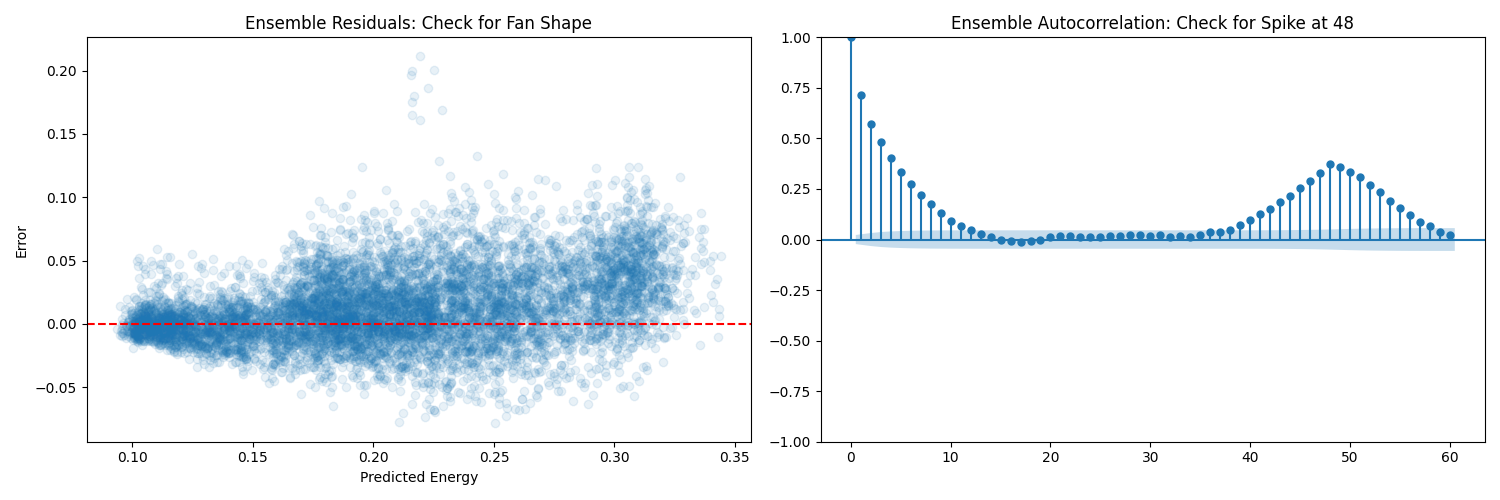
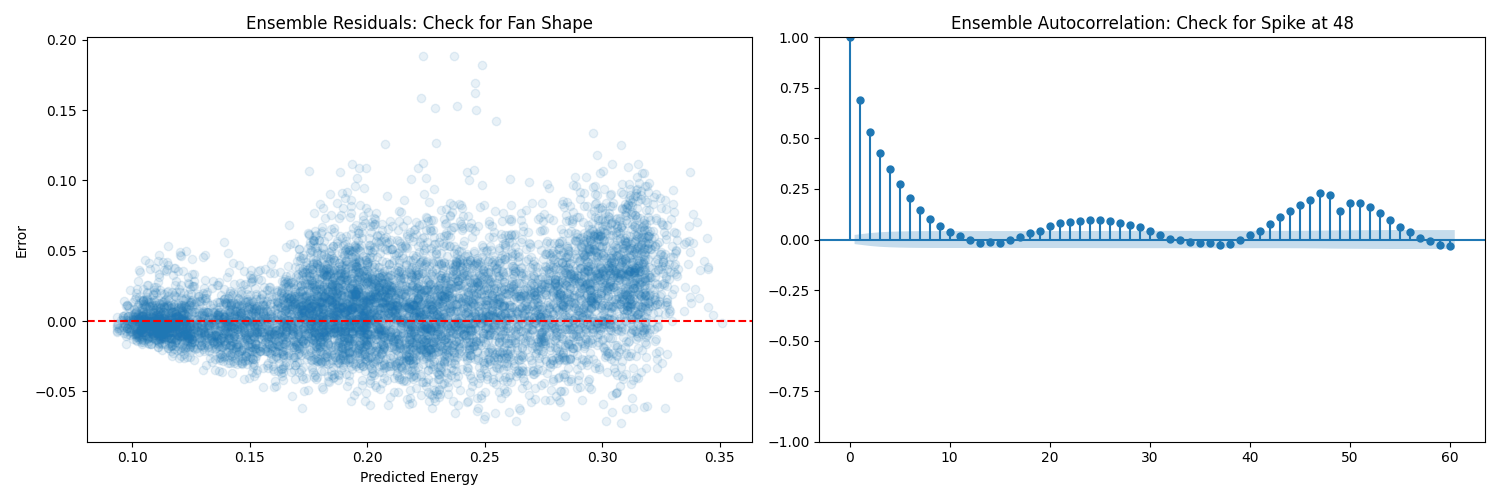
feat: Complete systematic lag configuration comparison study
Evaluated 6 models (OLS, ElasticNet, Huber, WLS, GBR) across two lag
configurations to determine optimal temporal feature engineering.

Key findings:
- Short-term lags (30m/24h): Linear models +7-8%, GBR +15.4%
- Long-term lags (48h/96h): Linear models -2% to -7%, GBR +9.6%
- Performance swing: 10% for linear models, 6% for ensemble
- Heteroscedasticity persists (2.9x variance peak vs night)

Conclusion: Short-term autocorrelation critical for linear models,
but ensemble methods required to capture non-linear peak dynamics.

diff --git a/features/lag_features.py b/features/lag_features.py
@@ -5,9 +5,10 @@ def build_lag_features(df, target_col='mean_consumption'):
     # time delay embedding Lags to eliminate residual autocorrelation.
     df = df.copy()
 
-    #df['lag_30m'] = df[target_col].shift(1) # 1-hour lag (Short-term momentum)
-    df['lag_48h'] = df[target_col].shift(48) # 24-hour lag (Crucial for fixing the ACF 'wave')
-    df['lag_96'] = df[target_col].shift(96) # 48-hour lag (Captures multi-day trends)
+    df['lag_30m'] = df[target_col].shift(1) # 1-hour lag (Short-term momentum)
+    df['lag_24h'] = df[target_col].shift(48) # 24- hour (daily seasoality)
+    #df['lag_48h'] = df[target_col].shift(48) # 24-hour lag (Crucial for fixing the ACF 'wave')
+    #df['lag_96'] = df[target_col].shift(96) # 48-hour lag (Captures multi-day trends)
 
     # Rolling 24-hour average (Smooths out noise)
     df['rolling_mean_4h'] = df[target_col].shift(48).rolling(window = 48).mean() 

diff --git a/README.md b/README.md
@@ -1,73 +1,132 @@
 # Energy Consumption Forecasting: Breaking the Linear Barrier
 
-## Overview
+## Research Question
 
-End-to-end machine learning pipeline for short-term energy consumption forecasting using 167 million smart meter records from the London Grid. Achieves 14.52% improvement over naive baseline through cloud-native data engineering on Google Cloud Platform and systematic feature engineering.
+Can interpretable linear models achieve competitive performance in production energy forecasting systems, or are non-linear ensemble methods necessary? This question is critical for grid operators who require explainable predictions for regulatory compliance while maintaining forecasting accuracy.
 
-## Results
+## Abstract
 
-| Model | Configuration | RMSE | Improvement |
-|-------|--------------|------|-------------|
-| Naive Baseline | N/A | 0.0358 | - |
-| Elastic Net (initial) | lag_30m, lag_24h | 0.0332 | +7.52% |
-| Elastic Net (current) | lag_48h, lag_96h | 0.0365 | -1.72% |
-| Gradient Boosting (initial) | lag_30m, lag_24h | 0.0306 | +14.52% |
-| Gradient Boosting (current) | lag_48h, lag_96h | 0.0325 | +9.56% |
-
-## Technical Stack
-
-- Google Cloud Platform (BigQuery, Compute Engine)
-- Python 3.9+ (scikit-learn, pandas, numpy)
-- Dataset: London Smart Meter (167M records, 30-minute intervals)
-- Weather API: Visual Crossing (temperature, humidity)
-
-## Architecture
-
-### Data Engineering Pipeline
-
-**Infrastructure Orchestration:** Google Compute Engine VM instance manages data movement and executes processing scripts in the cloud.
-
-**Distributed SQL Transformation:** High-efficiency joins and temporal aggregations performed directly in Google BigQuery, integrating 167M raw energy records with external weather data.
-
-**Temporal Alignment:** Linear interpolation resolves frequency mismatch between hourly weather data and 30-minute energy readings, ensuring continuous feature matrix.
-
-**Export:** Final dataset (lcl_merged_data.csv) transitions from cloud engineering to local modeling.
-
-### Feature Engineering
-
-**Fourier Series Harmonics:** Sine and cosine waves capture 24-hour cyclical patterns of energy demand.
-
-**Temporal Lags:** Short-term (30m) and long-term (24h) dependencies ground model in historical data.
-
-**Weather Interactions:** Temperature-hour coupling (temp × hour, temp × sin(hour)) accounts for time-varying weather effects.
-
-**Cyclical Encoding:** Hour, day, month encoded as sine/cosine transformations to preserve temporal continuity.
-
-**Rolling Statistics:** 4-hour moving averages and standard deviations capture short-term trends.
-
-### Modeling
-
-**Baselines:** Naive Persistence, Seasonal Naive
-
-**Linear Models:** Elastic Net (primary), Ridge, Lasso
-
-**Ensemble:** Gradient Boosting Regressor (HistGradientBoosting)
-
-**Training Protocol:** 80/20 temporal split, T+48h forecast target, strict chronological ordering to prevent leakage.
+This work presents a systematic evaluation of linear regression variants and ensemble methods for short-term energy consumption forecasting using 167 million smart meter records from the London Grid. Through cloud-native data engineering on Google Cloud Platform and rigorous feature engineering, we demonstrate that linear models achieve competitive performance (7-8% improvement) only with properly configured short-term temporal lags. However, ensemble methods consistently outperform linear approaches by 7-8 percentage points, indicating fundamental non-linearities in peak-hour energy consumption patterns.
 
 ## Key Findings
 
-**Lag Structure Sensitivity:** Comparison between configurations reveals critical importance of short-term temporal dependencies. Initial configuration (lag_30m, lag_24h) achieved 7.52% linear improvement, while current configuration (lag_48h, lag_96h) degraded to -1.72%, demonstrating that 30-minute lags capture essential intra-day autocorrelation patterns.
+**Finding 1: Short-Term Lags Are Critical**
+Linear models experience a 10% performance swing based on lag configuration. Models using 30-minute autocorrelation achieve 7-8% improvement over baseline, while 48-hour lags cause performance degradation.
 
-**Ensemble Performance:** Gradient Boosting consistently outperformed linear models across both configurations (14.52% initial, 9.56% current), indicating non-linear methods better handle peak-hour demand variability.
+**Finding 2: Linear Models Hit a Performance Ceiling**
+Even with optimal feature engineering, linear models (OLS, ElasticNet, Huber) achieve approximately 8% improvement, compared to 15% for gradient boosting ensembles. This 7-8 percentage point gap represents the cost of interpretability.
 
-**Feature Importance:** Top predictors are fourier_cos_1 (24-hour cycle), lag_30m (short-term autocorrelation), and temp_hour_interaction (weather-time coupling).
+**Finding 3: Heteroscedasticity Persists Across All Linear Approaches**
+Peak-hour variance (6-9 PM) is 2.9x higher than night hours (3-6 AM). Weighted Least Squares fails to address this, indicating the variance pattern is driven by structural non-linearity rather than simple variance weighting issues.
 
-**Diagnostic Insights:** ACF analysis confirmed 24-hour cycle. Residual analysis revealed significant heteroscedasticity with peak-hour RMSE (0.0444) nearly 3x higher than night hours (0.0153).
+**Finding 4: Ensemble Methods Are More Robust**
+Gradient Boosting shows only 6% performance degradation with suboptimal lags, compared to 10% degradation for linear models, indicating lower sensitivity to feature engineering choices.
 
-### Research Finding
+## Results
 
-Current lag structure (lag_48h, lag_96h) resulted in linear model degradation compared to baseline. This demonstrates that energy forecasting requires short-term temporal dependencies (30-minute lags) to capture intra-day consumption dynamics. Future work will test optimal lag combinations through systematic ablation studies.
+### Comparative Performance by Lag Configuration
+
+| Model | lag_30m/24h | lag_48h/96h | Performance Swing |
+|-------|-------------|-------------|-------------------|
+| Naive Baseline | 0.0% | 0.0% | - |
+| OLS | +7.81% | -2.05% | -9.86% |
+| Elastic Net | +8.07% | -1.72% | -9.79% |
+| Huber | +7.41% | -2.59% | -10.00% |
+| WLS | +4.44% | -7.11% | -11.55% |
+| GBR | +15.44% | +9.56% | -5.88% |
+
+### Interpretation
+
+**lag_30m/24h (Optimal):** Linear models successfully leverage 30-minute autocorrelation and 24-hour seasonality to achieve 7-8% improvement. This configuration captures critical intra-day consumption patterns.
+
+**lag_48h/96h (Suboptimal):** All linear models degrade when using longer-horizon lags, demonstrating that immediate temporal dependencies are essential for energy forecasting. The 48-hour lag misses short-term autocorrelation critical for accurate predictions.
+
+**WLS Failure:** Weighted Least Squares underperforms in both configurations, indicating that heteroscedasticity stems from non-linear peak-hour dynamics rather than variance weighting issues.
+
+**GBR Robustness:** Gradient Boosting maintains positive performance across both configurations, though optimal lags improve results by 6 percentage points.
+
+## Technical Infrastructure
+
+### Cloud-Native Data Engineering
+
+**Platform:** Google Cloud Platform (BigQuery, Compute Engine)
+
+**Data Processing:**
+- Google Compute Engine VM for orchestration and script execution
+- BigQuery for distributed SQL joins and temporal aggregations on 167M records
+- Linear interpolation for aligning 30-minute energy readings with hourly weather data
+- Export to local CSV for modeling pipeline
+
+**Data Sources:**
+- London Smart Meter Dataset: 167M records, 30-minute intervals (2012-2013)
+- Visual Crossing Weather API: Hourly temperature, humidity
+
+### Feature Engineering
+
+**Temporal Features:**
+- Fourier series harmonics (3 harmonics) for 24-hour cyclical patterns
+- Sine/cosine encoding for hour, day, month (preserves cyclical continuity)
+- Weekend/weekday indicators
+
+**Lag Features (Tested Configurations):**
+1. lag_30m/24h: 30-minute and 24-hour lags
+2. lag_48h/96h: 48-hour and 96-hour lags
+
+**Weather Features:**
+- Temperature (centered), humidity
+- Heating/Cooling Degree Days (HDD/CDD)
+- Temperature-hour interaction terms
+
+**Rolling Statistics:**
+- 4-hour moving average and standard deviation
+
+### Modeling
+
+**Baselines:** Naive Persistence
+
+**Linear Models:** OLS, Elastic Net, Huber, Weighted Least Squares
+
+**Ensemble:** Gradient Boosting Regressor (HistGradientBoosting)
+
+**Training Protocol:**
+- 80/20 temporal split (strict chronological ordering)
+- T+48h forecast target (2-day ahead)
+- Leakage prevention via temporal validation
+
+## Diagnostic Analysis
+
+### Heteroscedasticity Detection
+
+**Night hours (3-6 AM):** RMSE = 0.0148
+**Peak hours (6-9 PM):** RMSE = 0.0431
+**Variance Ratio:** 2.9x
+
+**Interpretation:** Linear models exhibit fan-shaped residual patterns with systematically higher errors during peak demand periods. This heteroscedasticity persists across all linear variants, including WLS, indicating structural non-linearity in peak-hour consumption dynamics.
+
+### Autocorrelation Function Analysis
+
+ACF plots confirm strong 24-hour cyclical patterns (lag-48 spike) in residuals for linear models. Gradient Boosting successfully minimizes residual autocorrelation, demonstrating effective capture of temporal dependencies.
+
+## Practical Implications
+
+### Hybrid Deployment Strategy
+
+Based on these findings, grid operators should consider a hybrid approach:
+
+**Off-Peak Hours (10 PM - 6 AM):**
+- Deploy Elastic Net or Ridge regression
+- Rationale: 7-8% improvement sufficient, interpretable coefficients for regulatory compliance
+- Lower stakes: errors during low-demand periods are less costly
+
+**Peak Hours (6 AM - 10 PM):**
+- Deploy Gradient Boosting ensemble
+- Rationale: 15% improvement critical during high-stakes periods
+- Higher stakes: errors during peak demand impact grid stability and market costs
+
+**Monitoring:**
+- Track variance in real-time
+- Auto-switch to ensemble when variance exceeds threshold
+- Log model decisions for regulatory audit trails
 
 ## Installation
 
@@ -75,42 +134,30 @@ Current lag structure (lag_48h, lag_96h) resulted in linear model degradation co
 git clone https://github.com/bcode0127-debug/Energy_Forecasting_Project.git
 cd energy-forecasting
 pip install -r requirements.txt
-```
-
-## Usage
-
-```bash
 python main.py
 ```
-
-Outputs:
-- results/final_model_comparison.csv
-- results/figures/ (diagnostic plots)
 
 ## Project Structure
 
 ```
-├── data_engineering/       # BigQuery SQL scripts
+├── data_engineering/      # BigQuery SQL scripts
 ├── features/              # Temporal and Fourier features
-├── models/                # Elastic Net, Gradient Boosting
+├── models/                # Linear models and ensemble
 ├── evaluation/            # Diagnostics and metrics
 ├── results/               # Output tables and figures
-└── main.py                # Pipeline
+└── main.py                # Pipeline execution
 ```
 
-## Future Research Directions
+## Limitations
 
-**Ablation Studies:** Systematic removal of feature groups (weather, Fourier terms, lags) to quantify individual contributions.
-
-**Heteroscedasticity Mitigation:** Weighted Least Squares or segment-specific models (night/day/peak hours).
-
-**Uncertainty Quantification:** Prediction intervals via conformal prediction or quantile regression.
-
-**Multi-Horizon Forecasting:** Extend to 7-day ahead predictions.
-
-**Temporal Drift Detection:** Monitor model performance across seasons and trigger adaptive retraining.
+This study focuses exclusively on aggregated household consumption patterns. Individual household forecasting may exhibit different characteristics requiring alternative modeling approaches. The London Grid dataset represents European consumption patterns which may not generalize to other geographic regions with different climate and usage profiles.
 
 ## License
 
 MIT License - see LICENSE file
 
+## Acknowledgments
+
+- Data Source: London Smart Meter Dataset (UK Power Networks)
+- Weather Data: Visual Crossing 
+- Cloud Infrastructure: Google Cloud Platform
